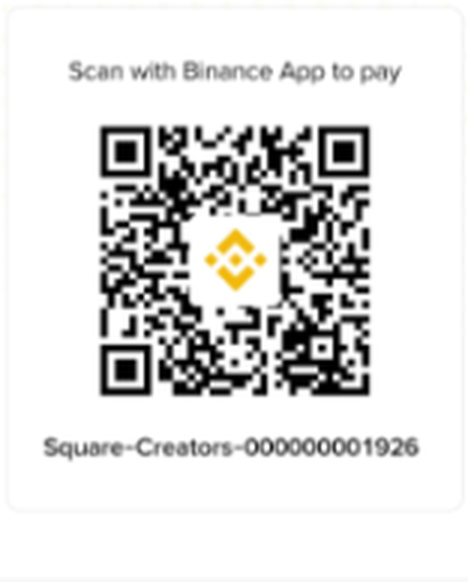
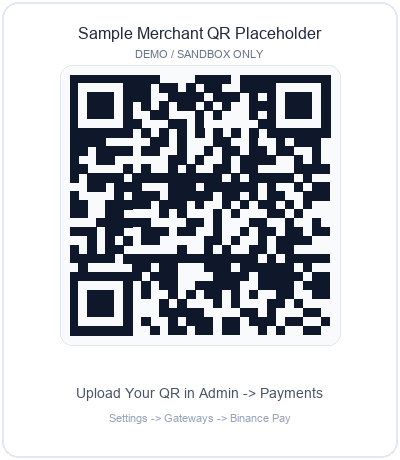
fix(mna): remediate buyer due diligence findings across branding, domains, and tournament seeders

diff --git a/src/app/admin/tournaments/page.tsx b/src/app/admin/tournaments/page.tsx
@@ -132,7 +132,7 @@ export default function AdminTournamentsPage() {
   const safeTournaments = Array.isArray(tournaments) ? tournaments : []
 
   // ─────────────────────────────────────────────────────────────
-  // 2.2 SYNTHETIC LEADERBOARD MANAGEMENT (Client Requirement)
+  // 2.2 DEMO BENCHMARK & SANDBOX LEADERBOARD SEEDER
   // ─────────────────────────────────────────────────────────────
   const [isManualEntryModalOpen, setIsManualEntryModalOpen] = useState(false)
   const [isGeneratingSynthetic, setIsGeneratingSynthetic] = useState(false)
@@ -151,7 +151,7 @@ export default function AdminTournamentsPage() {
     try {
       const res = await api.admin.tournaments.generateSynthetic(selectedTournamentForLeaderboard.id)
       if (res.ok && res.data.success) {
-        toast.success(`Generated ${res.data.count || 12} realistic synthetic leaderboard entries!`)
+        toast.success(`Generated ${res.data.count || 12} realistic benchmark seeder entries!`)
         refetchLeaderboard()
       } else {
         toast.error(res.ok ? (res.data.message || 'Generation failed') : res.error)
@@ -169,7 +169,7 @@ export default function AdminTournamentsPage() {
     try {
       const res = await api.admin.tournaments.clearSynthetic(selectedTournamentForLeaderboard.id, cleanId)
       if (res.ok && res.data.success) {
-        toast.success(entryId ? 'Removed synthetic entry.' : 'Cleared all synthetic entries.')
+        toast.success(entryId ? 'Removed benchmark entry.' : 'Cleared all benchmark seeder entries.')
         refetchLeaderboard()
       } else {
         toast.error(res.ok ? (res.data.message || 'Failed') : res.error)
@@ -308,7 +308,7 @@ export default function AdminTournamentsPage() {
       const pCleanId = String(p.synthetic_id || p.id).replace(/^synth_/, '')
       const currSynthetic = syntheticItems.find(s => s.id === pCleanId || s.id === String(p.synthetic_id) || s.id === String(p.id))
       if (!currSynthetic) {
-        toast.error('Synthetic entry not found.')
+        toast.error('Benchmark seeder entry not found.')
         setIsReordering(false)
         return
       }
@@ -1562,7 +1562,7 @@ export default function AdminTournamentsPage() {
                 className="gap-1 text-xs border-red-500/30 text-red-500 hover:bg-red-500/10 h-7"
               >
                 <Trash2 className="h-3 w-3" />
-                Clear Synthetic
+                Clear Demo Seeder
               </Button>
 
               <Button
@@ -1644,7 +1644,7 @@ export default function AdminTournamentsPage() {
                               )}
                               {(p as any).is_synthetic && (
                                 <Badge tone="warn" size="sm" className="text-3xs py-0 px-1 border-amber-500/30 text-amber-500 bg-amber-500/10 font-mono">
-                                  Synthetic
+                                  Demo Seeder
                                 </Badge>
                               )}
                             </div>
@@ -1719,7 +1719,7 @@ export default function AdminTournamentsPage() {
                                 variant="ghost"
                                 size="sm"
                                 className="h-6 w-6 p-0 text-red-500/70 hover:text-red-500 hover:bg-red-500/10"
-                                title="Delete synthetic entry"
+                                title="Delete benchmark seeder entry"
                                 onClick={() => handleClearSynthetic((p as any).synthetic_id || (p as any).id)}
                               >
                                 <Trash2 className="h-3.5 w-3.5" />
@@ -1749,7 +1749,7 @@ export default function AdminTournamentsPage() {
         </div>
       </Modal>
 
-      {/* ── Modal 1.5: Add Manual Synthetic Leaderboard Entry ──────────────── */}
+      {/* ── Modal 1.5: Add Manual Benchmark Seeder Entry ──────────────── */}
       <Modal
         isOpen={isManualEntryModalOpen}
         onClose={() => setIsManualEntryModalOpen(false)}
@@ -1857,7 +1857,7 @@ export default function AdminTournamentsPage() {
         </form>
       </Modal>
 
-      {/* ── Modal 1.6: Edit Synthetic Leaderboard Entry ────────────────────── */}
+      {/* ── Modal 1.6: Edit Benchmark Seeder Entry ────────────────────── */}
       <Modal
         isOpen={isEditSyntheticModalOpen}
         onClose={() => setIsEditSyntheticModalOpen(false)}

diff --git a/src/app/admin/seo/page.tsx b/src/app/admin/seo/page.tsx
@@ -84,6 +84,9 @@ export default function AdminSeoPage() {
   const [aiModalOpen, setAiModalOpen] = useState(false)
   const [aiResult, setAiResult] = useState<any>(null)
 
+  const siteOrigin = typeof window !== 'undefined' ? window.location.origin : (process.env.NEXT_PUBLIC_SITE_URL || 'https://your-domain.com')
+  const siteHost = typeof window !== 'undefined' ? window.location.host : 'your-domain.com'
+
   // Load current values from API
   useEffect(() => {
     let mounted = true
@@ -1322,7 +1325,7 @@ export default function AdminSeoPage() {
                       <div className="text-xs font-semibold text-slate-800 dark:text-foreground">XML Sitemap</div>
                       <div className="text-2xs text-slate-500 dark:text-muted-foreground font-mono">/sitemap.xml</div>
                     </div>
-                    <Button variant="ghost" size="sm" onClick={() => handleCopy('https://massfunded.org/sitemap.xml', 'sitemap')}>
+                    <Button variant="ghost" size="sm" onClick={() => handleCopy(`${siteOrigin}/sitemap.xml`, 'sitemap')}>
                       {copiedKey === 'sitemap' ? <Check className="h-4 w-4 text-emerald-600 dark:text-emerald-400" /> : <Copy className="h-4 w-4 text-slate-600 dark:text-slate-400" />}
                     </Button>
                   </div>
@@ -1331,7 +1334,7 @@ export default function AdminSeoPage() {
                       <div className="text-xs font-semibold text-slate-800 dark:text-foreground">Robots.txt Directives</div>
                       <div className="text-2xs text-slate-500 dark:text-muted-foreground font-mono">/robots.txt</div>
                     </div>
-                    <Button variant="ghost" size="sm" onClick={() => handleCopy('https://massfunded.org/robots.txt', 'robots')}>
+                    <Button variant="ghost" size="sm" onClick={() => handleCopy(`${siteOrigin}/robots.txt`, 'robots')}>
                       {copiedKey === 'robots' ? <Check className="h-4 w-4 text-emerald-600 dark:text-emerald-400" /> : <Copy className="h-4 w-4 text-slate-600 dark:text-slate-400" />}
                     </Button>
                   </div>
@@ -1386,12 +1389,12 @@ export default function AdminSeoPage() {
                   <div className="rounded-xl border border-slate-200 dark:border-border overflow-hidden bg-slate-50 dark:bg-surface-muted/40">
                     <div className="h-36 bg-gradient-to-tr from-emerald-950 via-zinc-900 to-teal-950 flex items-center justify-center text-center p-4">
                       <div className="space-y-1">
-                        <div className="text-xs font-bold text-emerald-400 font-mono">MASSFUNDED</div>
+                        <div className="text-xs font-bold text-emerald-400 font-mono">{(brandName || 'YOUR BRAND').toUpperCase()}</div>
                         <div className="text-xs text-white font-semibold">Simulated Funded Capital Up to $200k</div>
                       </div>
                     </div>
                     <div className="p-3 space-y-1">
-                      <div className="text-2xs text-slate-500 dark:text-muted-foreground uppercase font-mono">massfunded.org</div>
+                      <div className="text-2xs text-slate-500 dark:text-muted-foreground uppercase font-mono">{siteHost}</div>
                       <div className="text-xs font-semibold text-slate-800 dark:text-foreground line-clamp-1">{form.meta_title}</div>
                       <div className="text-2xs text-slate-600 dark:text-muted-foreground line-clamp-2">{form.meta_description}</div>
                     </div>

diff --git a/src/components/dashboard/trading/social-profit-share-modal.tsx b/src/components/dashboard/trading/social-profit-share-modal.tsx
@@ -308,8 +308,8 @@ export function SocialProfitShareModal({ open, onClose, trade }: SocialProfitSha
     ctx.fill()
     
     // Dynamic brand domain & verification URL
-    const origin = typeof window !== 'undefined' ? window.location.origin : 'https://demo.launchapropfirm.com'
-    const displayDomain = typeof window !== 'undefined' ? window.location.hostname : 'demo.launchapropfirm.com'
+    const origin = typeof window !== 'undefined' ? window.location.origin : (process.env.NEXT_PUBLIC_SITE_URL || 'https://your-domain.com')
+    const displayDomain = typeof window !== 'undefined' ? window.location.hostname : 'your-domain.com'
     const verifyUrl = `${origin}/verify?trade=${encodeURIComponent(trade?.symbol || '')}&acc=${encodeURIComponent(String(accountId))}`
 
     // Scannable Dynamic QR Matrix

diff --git a/src/app/checkout/page.tsx b/src/app/checkout/page.tsx
@@ -1113,6 +1113,11 @@ function BinancePayBlock({ amountDue, binanceId, binanceQrUrl }: { amountDue: nu
             <div className="text-[10px] font-medium text-gray-500 mt-1.5">
               Scan with Binance App (0% Fee)
             </div>
+            {(!binanceQrUrl || binanceQrUrl === '/branding/binance_pay_qr.png') && (
+              <p className="text-[9px] text-amber-600 dark:text-amber-400/90 mt-1 max-w-[150px] leading-tight mx-auto">
+                Demo QR shown — configure live Merchant QR in Admin → Payments.
+              </p>
+            )}
           </div>
 
           {/* Binance ID and Instructions */}
